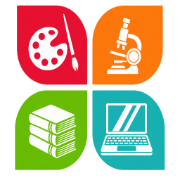
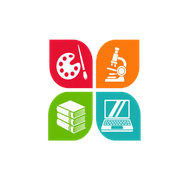
version 1.0

diff --git a/frontend/vite.config.js b/frontend/vite.config.js
@@ -15,6 +15,8 @@ export default defineConfig({
         'apple-touch-icon.png',
         'android-chrome-192x192.png',
         'android-chrome-512x512.png',
+        'maskable-icon-192x192.png',
+        'maskable-icon-512x512.png',
         'logo_leralscolaire.png'
       ],
       manifest: {
@@ -44,7 +46,13 @@ export default defineConfig({
             purpose: 'any'
           },
           {
-            src: '/android-chrome-512x512.png',
+            src: '/maskable-icon-192x192.png',
+            sizes: '192x192',
+            type: 'image/png',
+            purpose: 'maskable'
+          },
+          {
+            src: '/maskable-icon-512x512.png',
             sizes: '512x512',
             type: 'image/png',
             purpose: 'maskable'
